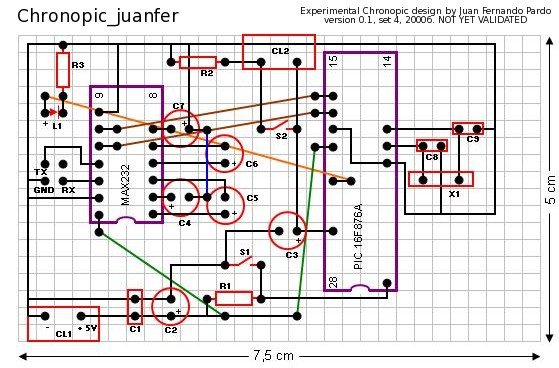
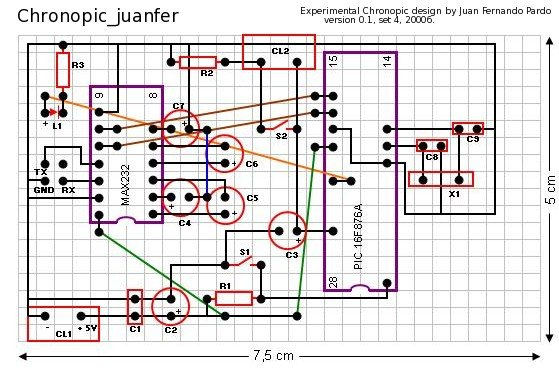
Added chronopic_juanfer in spanish, linked correctly with other languages, and deleted "experimental" word (also on schema)

diff --git a/www.gnome.org/projects/chronojump/construction_chronopic_juanfer.html b/www.gnome.org/projects/chronojump/construction_chronopic_juanfer.html
@@ -24,7 +24,7 @@
 <ul>
 <li>Catal&agrave; (pending)
 <li>Deutsch (pending)
-<li>Espa&ntilde;ol (pending)
+<li><a href="construction_chronopic_juanfer_es.html">Espa&ntilde;ol</a>
 <li>Fran&ccedil;ais (pending)
 <li>Galego (pending)
 <li>Italiano (pending)
@@ -53,12 +53,12 @@ Construction of Chronopic_juanfer prototype
 </h4></td><td align="right"><a href="print/construction_chronopic_juanfer.html"><font size="1"><tt>Printable version
 </tt></font></a></td></tr></table>
 
-Juan Fernando Pardo has started to release an own Chronopic version, simpler and cheaper. This version is <b>NOT YET VALIDATED</b>.
+Juan Fernando Pardo has started to release an own Chronopic version, simpler and cheaper.
 <br><br>
 He managed to build it in one hour, and the total price in Argentina is like 22 US$
 
 <br><br>
-If you want to use a validated Chronopic, but more expensive (70 Euros in Spain), check the <a href="construction.html">construction page</a>.
+If you want to use the other Chronopic -more expensive (70 Euros in Spain)- check the <a href="construction.html">construction page</a>.
 
 <br><br>
 <h5>Construction of the Chronopic_juanfer prototype v.01</h5>
@@ -74,30 +74,34 @@ If you want to use a validated Chronopic, but more expensive (70 Euros in Spain)
 <img src="http://www.gnome.org/projects/chronojump/images/chronopic_juanfer_schema.jpg" width="559" height="368" hspace="6" vspace="8">
 <br>Chronopic_juanfer schema.
 
-<p>
-Comments <b>(pending to translate)</b>
+
+Notes:
 <ul>
-<li>Los componentes est&aacute;n montados sobre una tarjeta "experimental"
-<li>Las l&iacute;neas verdes, marrones y naranja son cables ubicados en la parte inferior de la placa soldados &uacute;nicamente en los extremos
-<li>La l&iacute;nea azul es un alambre ubicado en la parte superior de la placa soldado &uacute;nicamente en los extremos (puede ser tambi&eacute;n un cable como los otros)
+<li>All the components are mounted on a prototyping board
+<li>Red, Brown and Orange lines are wires located at the bottom face of the board. Both extremes of the wire are soldered to the pins of the components.
+<li>The blue line is wire located at the top face of the board. Both extremes of the wire are soldered to the pins of the componentes.
+<li>It is recommend the use of sockets for the MAX232 and PIC16F876A components, instead of soldering them directly to the board.
 </ul>
 
-Lista de componentes: <b>(pending to translate)</b>
+Bill of materials
 <ul>
-<li>C1: Condensador multicapa de 100n
-<li>C2: Condensador electrolitico 1uF 63v
-<li>C3: Condensador electrolitico 1uF 50v 
-<li>C4, C5, C6, C7: Condensador electrolitico 22uF 25v 
-<li>C8, C9: Condensador cer&aacute;mico 22pF
-<li>CL1, CL2: Clema (bornera) para circuito impreso de 2 v&iacute;as
-<li>R1: Resistencia 10K ohmios 5% ¼ W
-<li>R2: Resistencia 147 ohmios ¼ W
-<li>R3: Resistencia 330 ohmios 5% ¼ W
-<li>S1, S2: Pulsador de tacto para circuito impreso normal abierto
-<li>L1: Diodo LED 3mm color verde
-<li>MAX232: Conversor RS232 - TTL MAX232
-<li>PIC16F876A: Pic de 28 pines estrecho
-<li>Tarjeta experimental 8cm x 5cm aproximadamente
+<li>C1: 100nF capacitor
+<li>C2: 1uF 63v Electrolytic Capacitor
+<li>C3: 1uF 50v Electrolytic Capacitor
+<li>C4,C5,C6,C7: 22uF/25v Electrolytic Capacitors
+<li>C8,C9: 22pF ceramic capacitors
+<li>X1: 4Mhz quartz crystal oscillator
+<li>CL1,CL2: two terminals package for printed circuit boards
+<li>R1: 10K resistor 5%, 1/4W
+<li>R2: 147 ohms resistor. 5%. 1/4W
+<li>R3: 330 ohms resistor. 5%. 1/4W
+<li>S1,S2: Tack switches for printed circuit boards
+<li>L1: 3mm green Led diode
+<li>MAX232: The max232 chip. RS232-TTL conversor (mounted in a 2x18 pin socket)
+<li>PIC16F876A: Michochip Pic 16F876 microcontroller. 28 DIL package. (mounted in a 2x14 pin socket).
+<li>-One 2x8 socket for the Max232 chip
+<li>-One 2x14 socket for the PIC16f876a chip
+<li>-A 8x5 cm prototyping board
 </ul>
 </div></div>
 </td><td>

diff --git a/www.gnome.org/projects/chronojump/print/construction_chronopic_juanfer.html b/www.gnome.org/projects/chronojump/print/construction_chronopic_juanfer.html
@@ -17,12 +17,12 @@
 Construction of Chronopic_juanfer prototype
 </h4>
 
-Juan Fernando Pardo has started to release an own Chronopic version, simpler and cheaper. This version is <b>NOT YET VALIDATED</b>.
+Juan Fernando Pardo has started to release an own Chronopic version, simpler and cheaper.
 <br><br>
 He managed to build it in one hour, and the total price in Argentina is like 22 US$
 
 <br><br>
-If you want to use a validated Chronopic, but more expensive (70 Euros in Spain), check the <a href="construction.html">construction page</a>.
+If you want to use the other Chronopic -more expensive (70 Euros in Spain)- check the <a href="construction.html">construction page</a>.
 
 <br><br>
 <h5>Construction of the Chronopic_juanfer prototype v.01</h5>
@@ -38,29 +38,33 @@ If you want to use a validated Chronopic, but more expensive (70 Euros in Spain)
 <img src="http://www.gnome.org/projects/chronojump/images/chronopic_juanfer_schema.jpg" width="559" height="368" hspace="6" vspace="8">
 <br>Chronopic_juanfer schema.
 
-<p>
-Comments <b>(pending to translate)</b>
+
+Notes:
 <ul>
-<li>Los componentes est&aacute;n montados sobre una tarjeta "experimental"
-<li>Las l&iacute;neas verdes, marrones y naranja son cables ubicados en la parte inferior de la placa soldados &uacute;nicamente en los extremos
-<li>La l&iacute;nea azul es un alambre ubicado en la parte superior de la placa soldado &uacute;nicamente en los extremos (puede ser tambi&eacute;n un cable como los otros)
+<li>All the components are mounted on a prototyping board
+<li>Red, Brown and Orange lines are wires located at the bottom face of the board. Both extremes of the wire are soldered to the pins of the components.
+<li>The blue line is wire located at the top face of the board. Both extremes of the wire are soldered to the pins of the componentes.
+<li>It is recommend the use of sockets for the MAX232 and PIC16F876A components, instead of soldering them directly to the board.
 </ul>
 
-Lista de componentes: <b>(pending to translate)</b>
+Bill of materials
 <ul>
-<li>C1: Condensador multicapa de 100n
-<li>C2: Condensador electrolitico 1uF 63v
-<li>C3: Condensador electrolitico 1uF 50v 
-<li>C4, C5, C6, C7: Condensador electrolitico 22uF 25v 
-<li>C8, C9: Condensador cer&aacute;mico 22pF
-<li>CL1, CL2: Clema (bornera) para circuito impreso de 2 v&iacute;as
-<li>R1: Resistencia 10K ohmios 5% ¼ W
-<li>R2: Resistencia 147 ohmios ¼ W
-<li>R3: Resistencia 330 ohmios 5% ¼ W
-<li>S1, S2: Pulsador de tacto para circuito impreso normal abierto
-<li>L1: Diodo LED 3mm color verde
-<li>MAX232: Conversor RS232 - TTL MAX232
-<li>PIC16F876A: Pic de 28 pines estrecho
-<li>Tarjeta experimental 8cm x 5cm aproximadamente
+<li>C1: 100nF capacitor
+<li>C2: 1uF 63v Electrolytic Capacitor
+<li>C3: 1uF 50v Electrolytic Capacitor
+<li>C4,C5,C6,C7: 22uF/25v Electrolytic Capacitors
+<li>C8,C9: 22pF ceramic capacitors
+<li>X1: 4Mhz quartz crystal oscillator
+<li>CL1,CL2: two terminals package for printed circuit boards
+<li>R1: 10K resistor 5%, 1/4W
+<li>R2: 147 ohms resistor. 5%. 1/4W
+<li>R3: 330 ohms resistor. 5%. 1/4W
+<li>S1,S2: Tack switches for printed circuit boards
+<li>L1: 3mm green Led diode
+<li>MAX232: The max232 chip. RS232-TTL conversor (mounted in a 2x18 pin socket)
+<li>PIC16F876A: Michochip Pic 16F876 microcontroller. 28 DIL package. (mounted in a 2x14 pin socket).
+<li>-One 2x8 socket for the Max232 chip
+<li>-One 2x14 socket for the PIC16f876a chip
+<li>-A 8x5 cm prototyping board
 </ul>
 </body></html>

diff --git a/www.gnome.org/projects/chronojump/construction_ca.html b/www.gnome.org/projects/chronojump/construction_ca.html
@@ -55,8 +55,12 @@ Construcci&oacute;
 
 <h5>Construcci&oacute;-obtenci&oacute; del cron&ograve;metre</h5>
 <ul>
-<li>Per a informaci&oacute; al voltant de la <b>fabricaci&oacute;</b> del cron&ograve;metre llegir aquest correu: <a href="http://mail.gnome.org/archives/chronojump-list/2005-October/msg00001.html">Documentaci&oacute;n sobre Chronopic 1.0 y el Prototipo 1</a> (castell&agrave;)
-<li>Per a informaci&oacute; al voltant de la <b>compra</b> del cron&ograve;metre ja fabricat llegir aquest correu: <a href="http://mail.gnome.org/archives/chronojump-list/2005-October/msg00002.html">Adquisici&oacute;n del Prototipo I de la chronopic</a> (castell&agrave;)
+<li>Chronopic original
+  <ul>
+  <li>Per a informaci&oacute; al voltant de la <b>fabricaci&oacute;</b> del cron&ograve;metre llegir aquest correu: <a href="http://mail.gnome.org/archives/chronojump-list/2005-October/msg00001.html">Documentaci&oacute;n sobre Chronopic 1.0 y el Prototipo 1</a> (castell&agrave;)
+  <li>Per a informaci&oacute; al voltant de la <b>compra</b> del cron&ograve;metre ja fabricat llegir aquest correu: <a href="http://mail.gnome.org/archives/chronojump-list/2005-October/msg00002.html">Adquisici&oacute;n del Prototipo I de la chronopic</a> (castell&agrave;)
+  </ul>
+<li>Alternativament, pot construir la <a href="construction_chronopic_juanfer_es.html">Chronopic_juanfer</a> (castell&agrave;) (m&eacute;s barata i m&eacute;s f&agrave;cil de fabricar).
 </ul>
 
 <h5>Construcci&oacute; de la plataforma de contactes</h5>

diff --git a/www.gnome.org/projects/chronojump/print/construction_ca.html b/www.gnome.org/projects/chronojump/print/construction_ca.html
@@ -19,8 +19,12 @@ Construcci&oacute;
 
 <h5>Construcci&oacute;-obtenci&oacute; del cron&ograve;metre</h5>
 <ul>
-<li>Per a informaci&oacute; al voltant de la <b>fabricaci&oacute;</b> del cron&ograve;metre llegir aquest correu: <a href="http://mail.gnome.org/archives/chronojump-list/2005-October/msg00001.html">Documentaci&oacute;n sobre Chronopic 1.0 y el Prototipo 1</a> (castell&agrave;)
-<li>Per a informaci&oacute; al voltant de la <b>compra</b> del cron&ograve;metre ja fabricat llegir aquest correu: <a href="http://mail.gnome.org/archives/chronojump-list/2005-October/msg00002.html">Adquisici&oacute;n del Prototipo I de la chronopic</a> (castell&agrave;)
+<li>Chronopic original
+  <ul>
+  <li>Per a informaci&oacute; al voltant de la <b>fabricaci&oacute;</b> del cron&ograve;metre llegir aquest correu: <a href="http://mail.gnome.org/archives/chronojump-list/2005-October/msg00001.html">Documentaci&oacute;n sobre Chronopic 1.0 y el Prototipo 1</a> (castell&agrave;)
+  <li>Per a informaci&oacute; al voltant de la <b>compra</b> del cron&ograve;metre ja fabricat llegir aquest correu: <a href="http://mail.gnome.org/archives/chronojump-list/2005-October/msg00002.html">Adquisici&oacute;n del Prototipo I de la chronopic</a> (castell&agrave;)
+  </ul>
+<li>Alternativament, pot construir la <a href="construction_chronopic_juanfer_es.html">Chronopic_juanfer</a> (castell&agrave;) (m&eacute;s barata i m&eacute;s f&agrave;cil de fabricar).
 </ul>
 
 <h5>Construcci&oacute; de la plataforma de contactes</h5>

diff --git a/www.gnome.org/projects/chronojump/construction_gl.html b/www.gnome.org/projects/chronojump/construction_gl.html
@@ -56,8 +56,12 @@ Construci&oacute;n
 
 <h5>Construci&oacute;n-obtenci&oacute;n do cron&oacute;metro</h5>
 <ul>
-<li>Para informaci&oacute;n sobre a <b>fabricaci&oacute;n</b> do cron&oacute;metro, ler este e-mail: <a href="http://mail.gnome.org/archives/chronojump-list/2005-October/msg00001.html">Documentaci&oacute;n sobre Chronopic 1.0 e o Prototipo 1 (en castel&aacute;n)</a>
-<li>Para informaci&oacute;n referente &aacute; <b>compra</b> do cron&oacute;metro xa fabricado, ler este e-mail : <a href="http://mail.gnome.org/archives/chronojump-list/2005-October/msg00002.html">Adquisici&oacute;n do Prototipo I de Chronopic (en castel&aacute;n)</a>
+<li>Original Chronopic [Pending to translate]
+  <ul>
+  <li>Para informaci&oacute;n sobre a <b>fabricaci&oacute;n</b> do cron&oacute;metro, ler este e-mail: <a href="http://mail.gnome.org/archives/chronojump-list/2005-October/msg00001.html">Documentaci&oacute;n sobre Chronopic 1.0 e o Prototipo 1 (en castel&aacute;n)</a>
+  <li>Para informaci&oacute;n referente &aacute; <b>compra</b> do cron&oacute;metro xa fabricado, ler este e-mail : <a href="http://mail.gnome.org/archives/chronojump-list/2005-October/msg00002.html">Adquisici&oacute;n do Prototipo I de Chronopic (en castel&aacute;n)</a>
+  </ul>
+  <li>Check also the <a href="construction_chronopic_juanfer.html">Chronopic_juanfer</a> (cheaper, easier to build). [Pending to translate]
 </ul>
 
 <h5>Construci&oacute;n da plataforma de contactos</h5>

diff --git a/www.gnome.org/projects/chronojump/print/construction_gl.html b/www.gnome.org/projects/chronojump/print/construction_gl.html
@@ -19,8 +19,12 @@ Construci&oacute;n
 
 <h5>Construci&oacute;n-obtenci&oacute;n do cron&oacute;metro</h5>
 <ul>
-<li>Para informaci&oacute;n sobre a <b>fabricaci&oacute;n</b> do cron&oacute;metro, ler este e-mail: <a href="http://mail.gnome.org/archives/chronojump-list/2005-October/msg00001.html">Documentaci&oacute;n sobre Chronopic 1.0 e o Prototipo 1 (en castel&aacute;n)</a>
-<li>Para informaci&oacute;n referente &aacute; <b>compra</b> do cron&oacute;metro xa fabricado, ler este e-mail : <a href="http://mail.gnome.org/archives/chronojump-list/2005-October/msg00002.html">Adquisici&oacute;n do Prototipo I de Chronopic (en castel&aacute;n)</a>
+<li>Original Chronopic [Pending to translate]
+  <ul>
+  <li>Para informaci&oacute;n sobre a <b>fabricaci&oacute;n</b> do cron&oacute;metro, ler este e-mail: <a href="http://mail.gnome.org/archives/chronojump-list/2005-October/msg00001.html">Documentaci&oacute;n sobre Chronopic 1.0 e o Prototipo 1 (en castel&aacute;n)</a>
+  <li>Para informaci&oacute;n referente &aacute; <b>compra</b> do cron&oacute;metro xa fabricado, ler este e-mail : <a href="http://mail.gnome.org/archives/chronojump-list/2005-October/msg00002.html">Adquisici&oacute;n do Prototipo I de Chronopic (en castel&aacute;n)</a>
+  </ul>
+  <li>Check also the <a href="construction_chronopic_juanfer.html">Chronopic_juanfer</a> (cheaper, easier to build). [Pending to translate]
 </ul>
 
 <h5>Construci&oacute;n da plataforma de contactos</h5>

diff --git a/www.gnome.org/projects/chronojump/construction_pt.html b/www.gnome.org/projects/chronojump/construction_pt.html
@@ -55,8 +55,12 @@ Constru&ccedil;&atilde;o
 
 <h5>Constru&ccedil;&atilde;o-obten&ccedil;&atilde;o do cron&ocirc;metro</h5>
 <ul>
-<li>Para informa&ccedil;&atilde;o de <b>fabrica&ccedil;&atilde;o</b> de cron&ocirc;metro, ler este e-mail: <a href="http://mail.gnome.org/archives/chronojump-list/2005-October/msg00001.html">Documentaci&oacute;n sobre Chronopic 1.0 y el Prototipo 1</a> (em espanhol)
-<li>Para informa&ccedil;&atilde;o de <b>compra</b> de cron&ocirc;metro fabricado, ler este e-mail: <a href="http://mail.gnome.org/archives/chronojump-list/2005-October/msg00002.html">Adquisici&oacute;n del Prototipo I de la chronopic</a> (em espanhol)
+<li>Original Chronopic [Pending to translate]
+  <ul>
+  <li>Para informa&ccedil;&atilde;o de <b>fabrica&ccedil;&atilde;o</b> de cron&ocirc;metro, ler este e-mail: <a href="http://mail.gnome.org/archives/chronojump-list/2005-October/msg00001.html">Documentaci&oacute;n sobre Chronopic 1.0 y el Prototipo 1</a> (em espanhol)
+  <li>Para informa&ccedil;&atilde;o de <b>compra</b> de cron&ocirc;metro fabricado, ler este e-mail: <a href="http://mail.gnome.org/archives/chronojump-list/2005-October/msg00002.html">Adquisici&oacute;n del Prototipo I de la chronopic</a> (em espanhol)
+  </ul>
+  <li>Check also the <a href="construction_chronopic_juanfer.html">Chronopic_juanfer</a> (cheaper, easier to build). [Pending to translate]
 </ul>
 
 <h5>Constru&ccedil;&atilde;o de Plataforma de contatos</h5>

diff --git a/www.gnome.org/projects/chronojump/print/construction_pt.html b/www.gnome.org/projects/chronojump/print/construction_pt.html
@@ -19,8 +19,12 @@ Constru&ccedil;&atilde;o
 
 <h5>Constru&ccedil;&atilde;o-obten&ccedil;&atilde;o do cron&ocirc;metro</h5>
 <ul>
-<li>Para informa&ccedil;&atilde;o de <b>fabrica&ccedil;&atilde;o</b> de cron&ocirc;metro, ler este e-mail: <a href="http://mail.gnome.org/archives/chronojump-list/2005-October/msg00001.html">Documentaci&oacute;n sobre Chronopic 1.0 y el Prototipo 1</a> (em espanhol)
-<li>Para informa&ccedil;&atilde;o de <b>compra</b> de cron&ocirc;metro fabricado, ler este e-mail: <a href="http://mail.gnome.org/archives/chronojump-list/2005-October/msg00002.html">Adquisici&oacute;n del Prototipo I de la chronopic</a> (em espanhol)
+<li>Original Chronopic [Pending to translate]
+  <ul>
+  <li>Para informa&ccedil;&atilde;o de <b>fabrica&ccedil;&atilde;o</b> de cron&ocirc;metro, ler este e-mail: <a href="http://mail.gnome.org/archives/chronojump-list/2005-October/msg00001.html">Documentaci&oacute;n sobre Chronopic 1.0 y el Prototipo 1</a> (em espanhol)
+  <li>Para informa&ccedil;&atilde;o de <b>compra</b> de cron&ocirc;metro fabricado, ler este e-mail: <a href="http://mail.gnome.org/archives/chronojump-list/2005-October/msg00002.html">Adquisici&oacute;n del Prototipo I de la chronopic</a> (em espanhol)
+  </ul>
+  <li>Check also the <a href="construction_chronopic_juanfer.html">Chronopic_juanfer</a> (cheaper, easier to build). [Pending to translate]
 </ul>
 
 <h5>Constru&ccedil;&atilde;o de Plataforma de contatos</h5>

diff --git a/www.gnome.org/projects/chronojump/construction_es.html b/www.gnome.org/projects/chronojump/construction_es.html
@@ -55,8 +55,12 @@ Construcci&oacute;n
 
 <h5>Construcci&oacute;n-obtenci&oacute;n de cron&oacute;metro</h5>
 <ul>
-<li>Para informaci&oacute;n a cerca de la <b>fabricaci&oacute;n</b> del cron&oacute;metro, leer este e-mail: <a href="http://mail.gnome.org/archives/chronojump-list/2005-October/msg00001.html">Documentaci&oacute;n sobre Chronopic 1.0 y el Prototipo 1</a>
-<li>Para informaci&oacute;n a cerca de la <b>compra</b> del cron&oacute;metro ya fabricado, leer este email: <a href="http://mail.gnome.org/archives/chronojump-list/2005-October/msg00002.html">Adquisici&oacute;n del Prototipo I de la chronopic</a>
+<li>Chronopic original
+  <ul>
+  <li>Para informaci&oacute;n a cerca de la <b>fabricaci&oacute;n</b> del cron&oacute;metro, leer este e-mail: <a href="http://mail.gnome.org/archives/chronojump-list/2005-October/msg00001.html">Documentaci&oacute;n sobre Chronopic 1.0 y el Prototipo 1</a>
+  <li>Para informaci&oacute;n a cerca de la <b>compra</b> del cron&oacute;metro ya fabricado, leer este email: <a href="http://mail.gnome.org/archives/chronojump-list/2005-October/msg00002.html">Adquisici&oacute;n del Prototipo I de la chronopic</a>
+  </ul>
+<li>Alternativamente, puede construir la <a href="construction_chronopic_juanfer_es.html">Chronopic_juanfer</a> (m&aacute;s barata y m&aacute;s f&aacute;cil de fabricar).
 </ul>
 
 <h5>Construcci&oacute;n de la plataforma de contactos</h5>

diff --git a/www.gnome.org/projects/chronojump/print/construction_es.html b/www.gnome.org/projects/chronojump/print/construction_es.html
@@ -19,8 +19,12 @@ Construcci&oacute;n
 
 <h5>Construcci&oacute;n-obtenci&oacute;n de cron&oacute;metro</h5>
 <ul>
-<li>Para informaci&oacute;n a cerca de la <b>fabricaci&oacute;n</b> del cron&oacute;metro, leer este e-mail: <a href="http://mail.gnome.org/archives/chronojump-list/2005-October/msg00001.html">Documentaci&oacute;n sobre Chronopic 1.0 y el Prototipo 1</a>
-<li>Para informaci&oacute;n a cerca de la <b>compra</b> del cron&oacute;metro ya fabricado, leer este email: <a href="http://mail.gnome.org/archives/chronojump-list/2005-October/msg00002.html">Adquisici&oacute;n del Prototipo I de la chronopic</a>
+<li>Chronopic original
+  <ul>
+  <li>Para informaci&oacute;n a cerca de la <b>fabricaci&oacute;n</b> del cron&oacute;metro, leer este e-mail: <a href="http://mail.gnome.org/archives/chronojump-list/2005-October/msg00001.html">Documentaci&oacute;n sobre Chronopic 1.0 y el Prototipo 1</a>
+  <li>Para informaci&oacute;n a cerca de la <b>compra</b> del cron&oacute;metro ya fabricado, leer este email: <a href="http://mail.gnome.org/archives/chronojump-list/2005-October/msg00002.html">Adquisici&oacute;n del Prototipo I de la chronopic</a>
+  </ul>
+<li>Alternativamente, puede construir la <a href="construction_chronopic_juanfer_es.html">Chronopic_juanfer</a> (m&aacute;s barata y m&aacute;s f&aacute;cil de fabricar).
 </ul>
 
 <h5>Construcci&oacute;n de la plataforma de contactos</h5>

diff --git a/www.gnome.org/projects/chronojump/construction.html b/www.gnome.org/projects/chronojump/construction.html
@@ -55,12 +55,12 @@ Construction
 
 <h5>Construction to obtaining the chronometer</h5>
 <ul>
-<li>Validated Official Chronopic
+<li>Original Chronopic
   <ul>
   <li>If you want information about the <b>construction</b> of the chronometer, read this e-mail: <a href="http://mail.gnome.org/archives/chronojump-list/2005-October/msg00001.html">Documentaci&oacute;n sobre Chronopic 1.0 y el Prototipo 1</a> (spanish)
   <li>If you want information about <b>how to buy</b> a just-made chronometer, read this e-mail: <a href="http://mail.gnome.org/archives/chronojump-list/2005-October/msg00002.html">Adquisici&oacute;n del Prototipo I de la chronopic</a> (spanish)
   </ul>
-<li>Check also the <a href="construction_chronopic_juanfer.html">Chronopic_juanfer</a> (cheaper, easier to build, experimental).
+<li>Check also the <a href="construction_chronopic_juanfer.html">Chronopic_juanfer</a> (cheaper, easier to build).
 </ul>
 
 

diff --git a/www.gnome.org/projects/chronojump/print/construction.html b/www.gnome.org/projects/chronojump/print/construction.html
@@ -19,12 +19,12 @@ Construction
 
 <h5>Construction to obtaining the chronometer</h5>
 <ul>
-<li>Validated Official Chronopic
+<li>Original Chronopic
   <ul>
   <li>If you want information about the <b>construction</b> of the chronometer, read this e-mail: <a href="http://mail.gnome.org/archives/chronojump-list/2005-October/msg00001.html">Documentaci&oacute;n sobre Chronopic 1.0 y el Prototipo 1</a> (spanish)
   <li>If you want information about <b>how to buy</b> a just-made chronometer, read this e-mail: <a href="http://mail.gnome.org/archives/chronojump-list/2005-October/msg00002.html">Adquisici&oacute;n del Prototipo I de la chronopic</a> (spanish)
   </ul>
-<li>Check also the <a href="construction_chronopic_juanfer.html">Chronopic_juanfer</a> (cheaper, easier to build, experimental).
+<li>Check also the <a href="construction_chronopic_juanfer.html">Chronopic_juanfer</a> (cheaper, easier to build).
 </ul>
 
 
